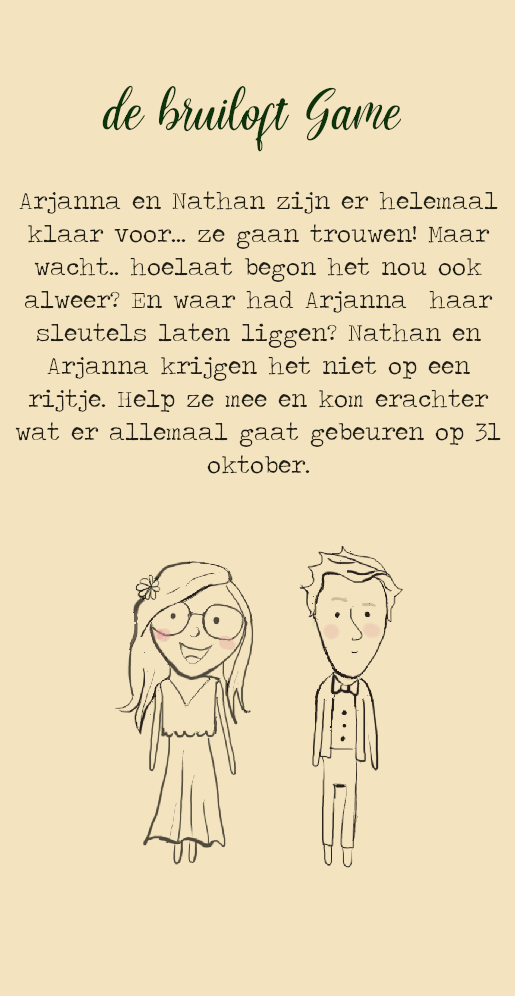
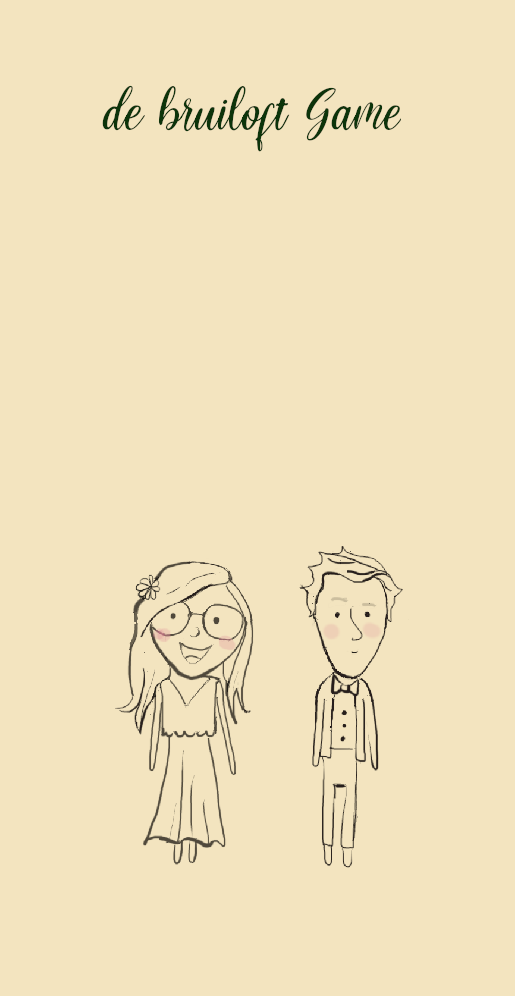
Seperarated text from the intro screen image

Changed region(s): [[0.0311, 0.186, 0.9631, 0.496]]

diff --git a/Website/public/invitationgame.html b/Website/public/invitationgame.html
@@ -2,6 +2,7 @@
 <html lang="nl">
 <head>
 	<meta name="viewport" content="width=device-width, initial-scale=1, shrink-to-fit=no">
+	<link rel="stylesheet" href="css/baseLayout.css"/>
 	<link rel="stylesheet" href="css/gameLayout.css"/>
     <title>Nathan & Arjanna</title>
 	<script type="text/javascript" src="js/Gameplay.js"></script>
@@ -9,12 +10,16 @@
 </head>
 
 <body onload="OnPageLoaded()"> 
-<!--   (disabled for testing purposes)
+<!--   (disabled for testing purposes) -->
 	<div id="gameIntroScreen">
 		<img src="images/gameIntroScreen.png"/>
-		<button onclick="OnStartButton()">Start de game</button>
+		<div id="introTextContainer">
+		<p>Arjanna en Nathan zijn er helemaal klaar voor... Ze gaan trouwen! Maar wacht... Hoe laat begon het nou ook alweer? En waar had Arjanna haar sleutels laten liggen? Nathan en Arjanna krijgen het niet
+		op een rijtje. Help ze mee en kom erachter wat er allemaal gaat gebeuren op 31 oktober!</p>
+		</div>
+		<button onclick="OnStartButton()"><p>Start de game!</p></button>
 	</div>
-	-->
+	
 	<div id="gameInfo">
 		<h2 class="gameInfoItem" id="progressText">0/x</h2>
 		<h2 class="gameInfoItem" id="targetDescription">Beschrijving van wat de speler moet zoeken...</h2>
@@ -43,7 +48,7 @@
         <h3 class="specialGuestItem">Maaltijd:</h3>
         <p class="infoText specialGuestItem" id="info-5">Het diner begint om 18:00 uur en daarna is er feest tot 23:00 uur op de camping. </br>
 		Het kan koud worden, dus zorg dat je warm gekleed bent en dat je een kleedje meeneemt!</p>
-		<button onclick="OnCloseInvitationClicked()" >Oké!</button>
+		<button onclick="OnCloseInvitationClicked()"><p>Oké!</p></button>
     </div>
 </body>
     

diff --git a/Website/public/css/gameLayout.css b/Website/public/css/gameLayout.css
@@ -6,6 +6,19 @@ body{
 	margin: 0;
 }
 
+button{
+	background-color: #1a2312;
+	color: #f3e4bf;
+    outline: none;	
+	width: 250px;
+	height: 50px;
+}
+
+button p{
+	margin-bottom: 0.6rem;
+	font-size: 1rem;
+}
+
 #gameIntroScreen{
 	position: fixed;
 	top: 0px;
@@ -17,6 +30,23 @@ body{
 	background-color: #f3e4bf;
 }
 
+#introTextContainer{
+	position: fixed;
+	width: 100%;
+	top: 11rem;	
+	text-align: center;
+	font-size: 1.6rem;
+}
+
+#introTextContainer p{
+	width: 500px;
+	max-width: 90%;
+	margin: 0 auto;
+}
+
+#introText{
+}
+
 #gameIntroScreen img{
 	height: 100%;
 	position: fixed;
@@ -26,14 +56,9 @@ body{
 
 #gameIntroScreen button{
 	position: fixed;
-	width: 250px;
-	height: 50px;
 	bottom: 4.8%;
     left: 50%;
     transform: translate(-50%, 0);
-	background-color: #1a2312;
-	color: #f3e4bf;
-    outline: none;
 }
 
 #gameIntroScreen button:hover{
